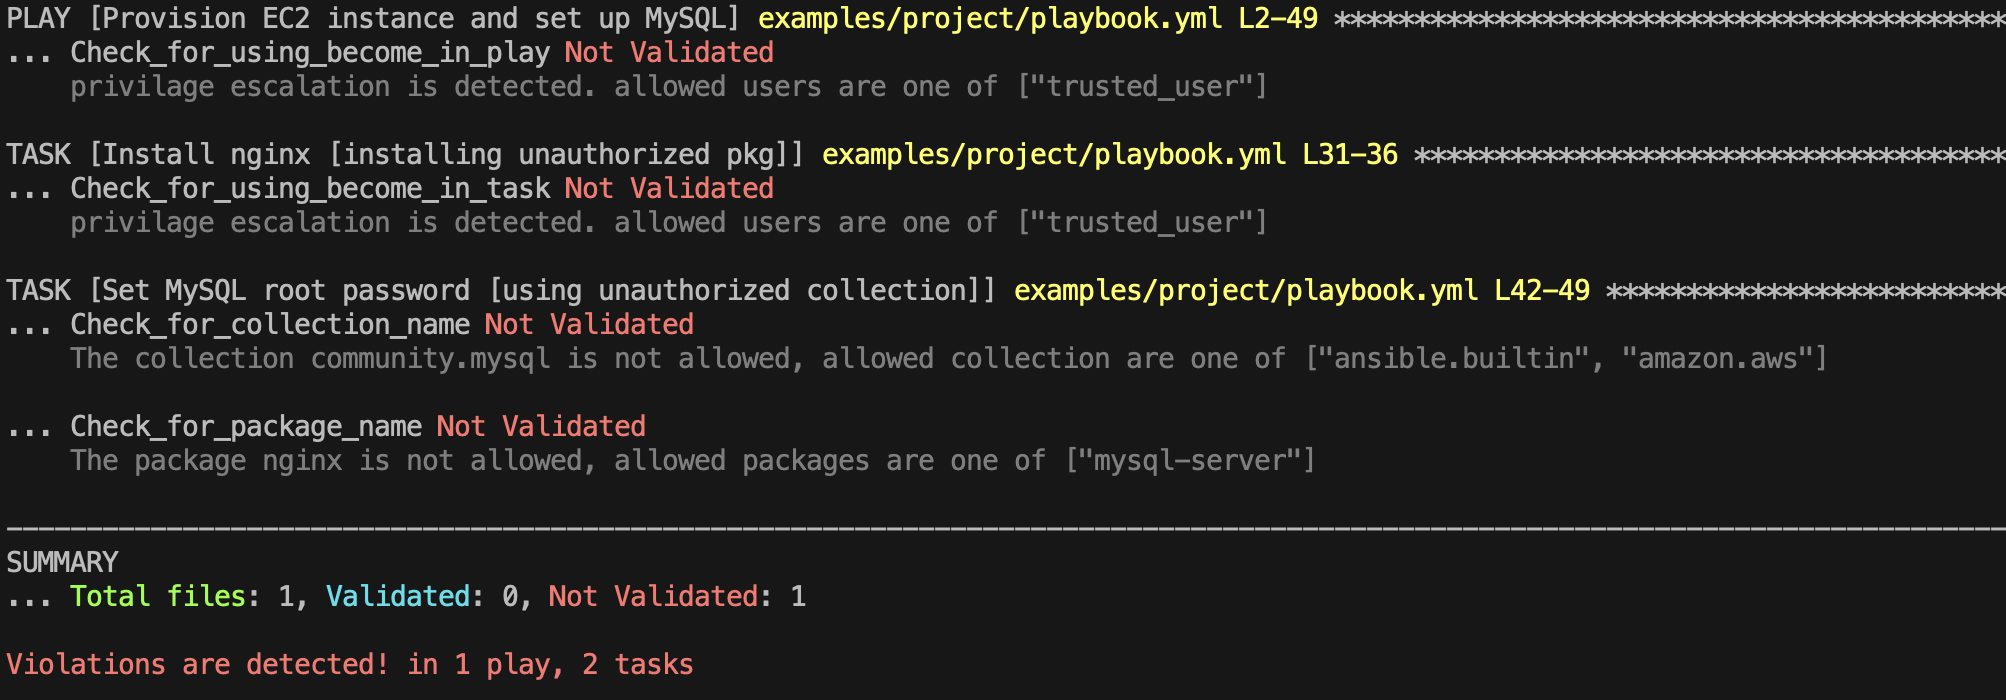
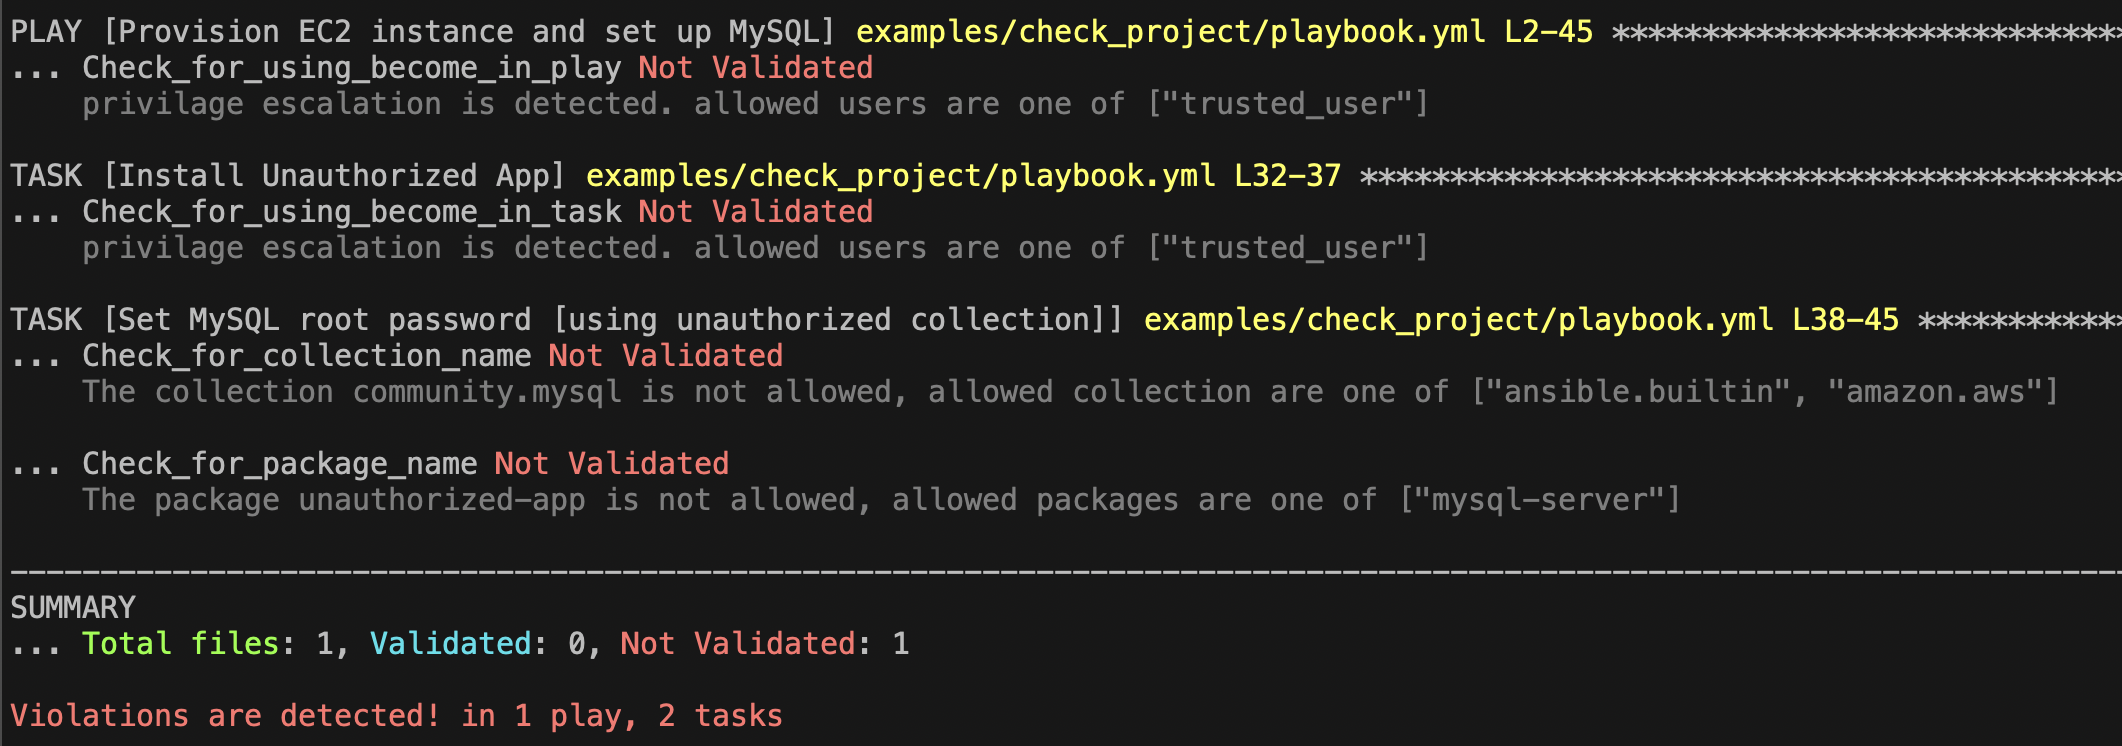
fix example scenario in README (#29)

diff --git a/ansible_policy/utils.py b/ansible_policy/utils.py
@@ -134,7 +134,7 @@ def embed_module_info_with_galaxy(task, galaxy):
         return
 
     if not galaxy:
-        return
+        galaxy = {}
 
     mappings = galaxy.get("module_name_mappings", {})
 
@@ -223,7 +223,8 @@ def load_external_data(ftype: str = "", fpath: str = ""):
 
     ext_data = None
     if ftype == ExternalDataTypeGalaxy:
-        ext_data = load_galaxy_data(fpath=fpath)
+        if fpath:
+            ext_data = load_galaxy_data(fpath=fpath)
     else:
         raise NotImplementedError
     return ext_data

diff --git a/ansible_policy/eval_policy.py b/ansible_policy/eval_policy.py
@@ -19,7 +19,9 @@ def eval_policy(
 ):
 
     if not external_data_path:
-        external_data_path = os.path.join(os.path.dirname(__file__), "galaxy_data.json")
+        _external_data_path = os.path.join(os.path.dirname(__file__), "galaxy_data.json")
+        if os.path.exists(_external_data_path):
+            external_data_path = _external_data_path
 
     evaluator = PolicyEvaluator(config_path=config_path, policy_dir=policy_dir)
     result = evaluator.run(

diff --git a/README.md b/README.md
@@ -39,35 +39,15 @@ ansible-policy transpile these policybooks into OPA policy automatically and eva
 
 See this [doc](./ansible_policy/policybook/README.md) about Policybook specification.
 
-### 5. Configure policies
 
-A configuration for ansible-policy is something like the following.
-
-```ini
-[policy]
-default disabled
-policies.org.compliance   tag=compliance  enabled
-
-[source]
-policies.org.compliance    = examples/check_project    # org-wide compliance policy
-```
-
-`policy` field is a configuration like iptable to enable/disable installed policies. Users can use tag for configuring this in detail.
-
-`source` field is a list of module packages and their source like ansible-galaxy or local directory. ansible-policy installs policies based on this configuration.
-
-The example above is configured to enable the 3 policies in step 4.
-
-You can use [the example config file](examples/ansible-policy.cfg) for the next step.
-
-### 6. Running policy evaluation on a playbook
+### 5. Running policy evaluation on a playbook
 
 [The example playbook](examples/check_project/playbook.yml) has some tasks that violate the 3 policies above.
 
 ansible-policy can report these violations like the following.
 
 ```bash
-$ ansible-policy -p examples/check_project/playbook.yml -c examples/ansible-policy.cfg
+$ ansible-policy -p examples/check_project/playbook.yml --policy-dir examples/check_project/policies
 ```
 
 <img src="images/example_output_policybook.png" width="600px">
@@ -75,15 +55,15 @@ $ ansible-policy -p examples/check_project/playbook.yml -c examples/ansible-poli
 
 From the result, you can see the details on violations.
 
-- [The task "Install nginx"](examples/check_project/playbook.yml#L30) is installing a package `nginx` with a root permission by using `become: true`. Nginx is not listed in the allowed packages and this is detected by the `check_package_policy`. Also privilege escalation is detected by the `check_become_policy`.
+- [The task "Install Unauthorized App"](examples/check_project/playbook.yml#L32) is installing a package `unauthorized-app` with a root permission by using `become: true`. This is not listed in the allowed packages defined in the policybook [check_package_policy]((examples/check_project/policies/check_pkg.yml)). Also the privilege escalation is detected by the policybook [check_become_policy](examples/check_project/policies/check_become.yml).
 
-- [The task "Set MySQL root password"](examples/check_project/playbook.yml#L41) is using a collection `community.mysql` which is not in the allowed list, and this is detected by the policy `check_collection_policy`.
+- [The task "Set MySQL root password"](examples/check_project/playbook.yml#L38) is using a collection `community.mysql` which is not in the allowed list, and this is detected by the policybook [check_collection_policy](examples/check_project/policies/check_collection.yml).
 
 
 Alternatively, you can output the evaluation result in a JSON format.
 
 ```bash
-$ ansible-policy -p examples/check_project/playbook.yml -c examples/ansible-policy.cfg --format json > agk-result.json
+$ ansible-policy -p examples/check_project/playbook.yml --policy-dir examples/check_project/policies --format json > agk-result.json
 ```
 
 Then you would get the JSON file like the following.
@@ -133,6 +113,27 @@ cat /tmp/agk-result.json | jq .files[0].policies[1].targets[1]
   "message": "privilage escalation is detected. allowed users are one of [\"trusted_user\"]\n"
 }
 ```
+
+### 6. (OPTIONAL) Prepare your configuration file
+
+Instead of specifying the policy directory, you can define a configuration for ansible-policy like the following.
+
+```ini
+[policy]
+default disabled
+policies.org.compliance   tag=compliance  enabled
+
+[source]
+policies.org.compliance    = examples/check_project    # org-wide compliance policy
+```
+
+`policy` field is a configuration like iptable to enable/disable installed policies. Users can use tag for configuring this in detail.
+
+`source` field is a list of module packages and their source like ansible-galaxy or local directory. ansible-policy installs policies based on this configuration.
+
+The example above is configured to enable the 3 policies in step 4.
+
+You can check [the example config file](examples/ansible-policy.cfg) as reference.
 
 
 ## Policy check for Event streams
